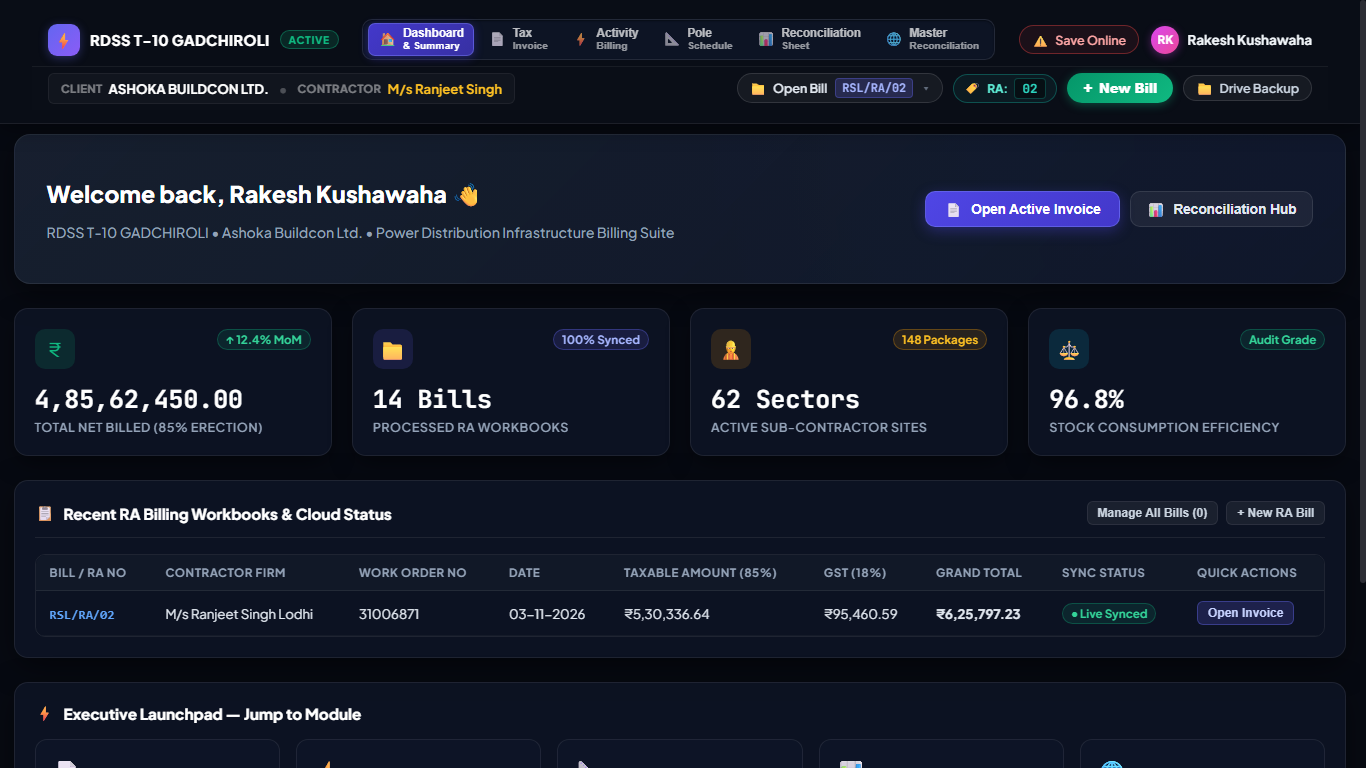
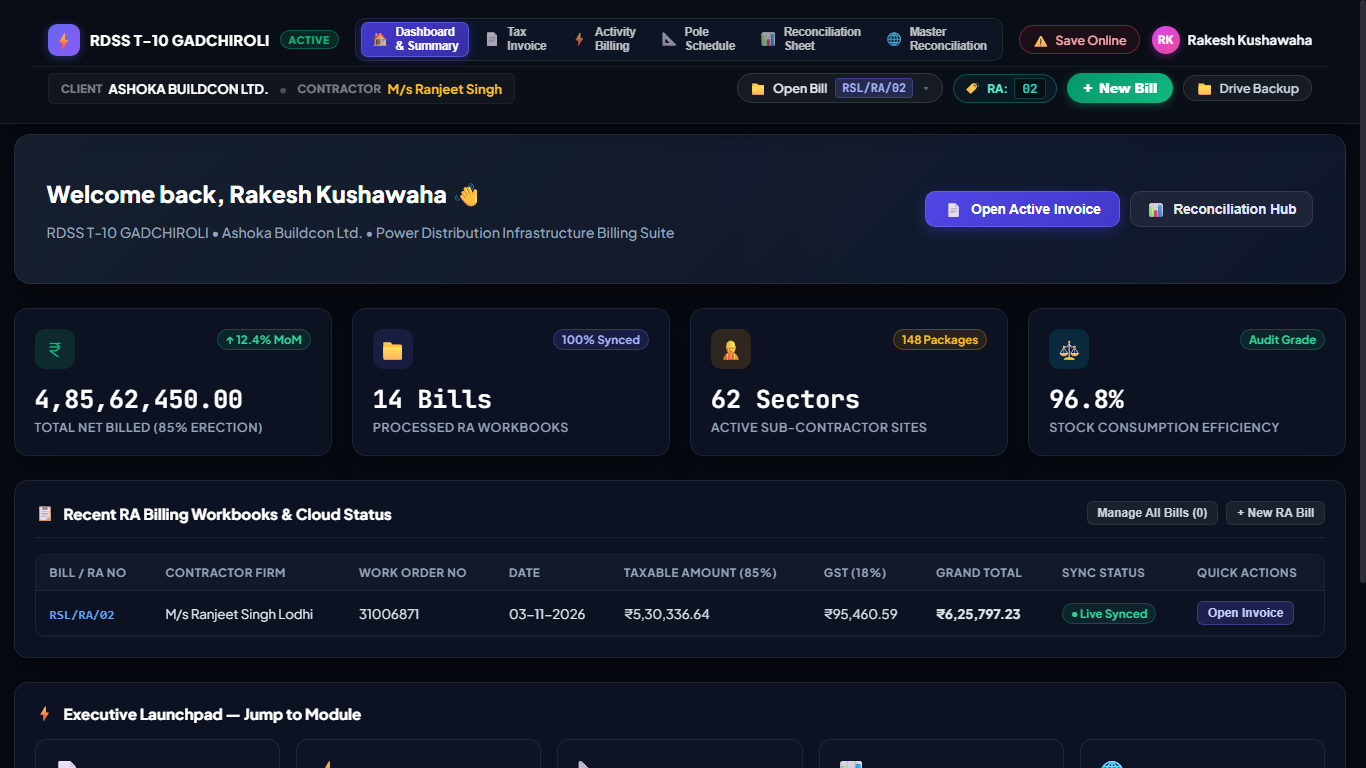
style(navbar): equalize font size and weight across wrapped tab lines

diff --git a/css/style.css b/css/style.css
@@ -3323,19 +3323,14 @@ body.dark-mode {
     text-align: left !important;
 }
 
-.tab-line-1 {
-    font-size: 0.74rem !important;
+.tab-line-1,
+.tab-line-2 {
+    font-size: 0.72rem !important;
     font-weight: 700 !important;
     white-space: nowrap !important;
     letter-spacing: -0.1px !important;
-}
-
-.tab-line-2 {
-    font-size: 0.65rem !important;
-    font-weight: 600 !important;
-    opacity: 0.78 !important;
-    white-space: nowrap !important;
-    letter-spacing: -0.1px !important;
+    opacity: 1 !important;
+    line-height: 1.15 !important;
 }
 
 .capsule-nav-tab.active .tab-line-1,

diff --git a/index.html b/index.html
@@ -23,7 +23,7 @@
         href="https://fonts.googleapis.com/css2?family=Plus+Jakarta+Sans:wght@400;500;600;700;800&family=JetBrains+Mono:wght@500;600;700&display=swap"
         rel="stylesheet">
 
-    <link rel="stylesheet" href="css/style.css?v=20261106_saas_v7">
+    <link rel="stylesheet" href="css/style.css?v=20261106_saas_v8">
     <script>
         // Dark mode is always enabled via html class="dark dark-mode"
     </script>
